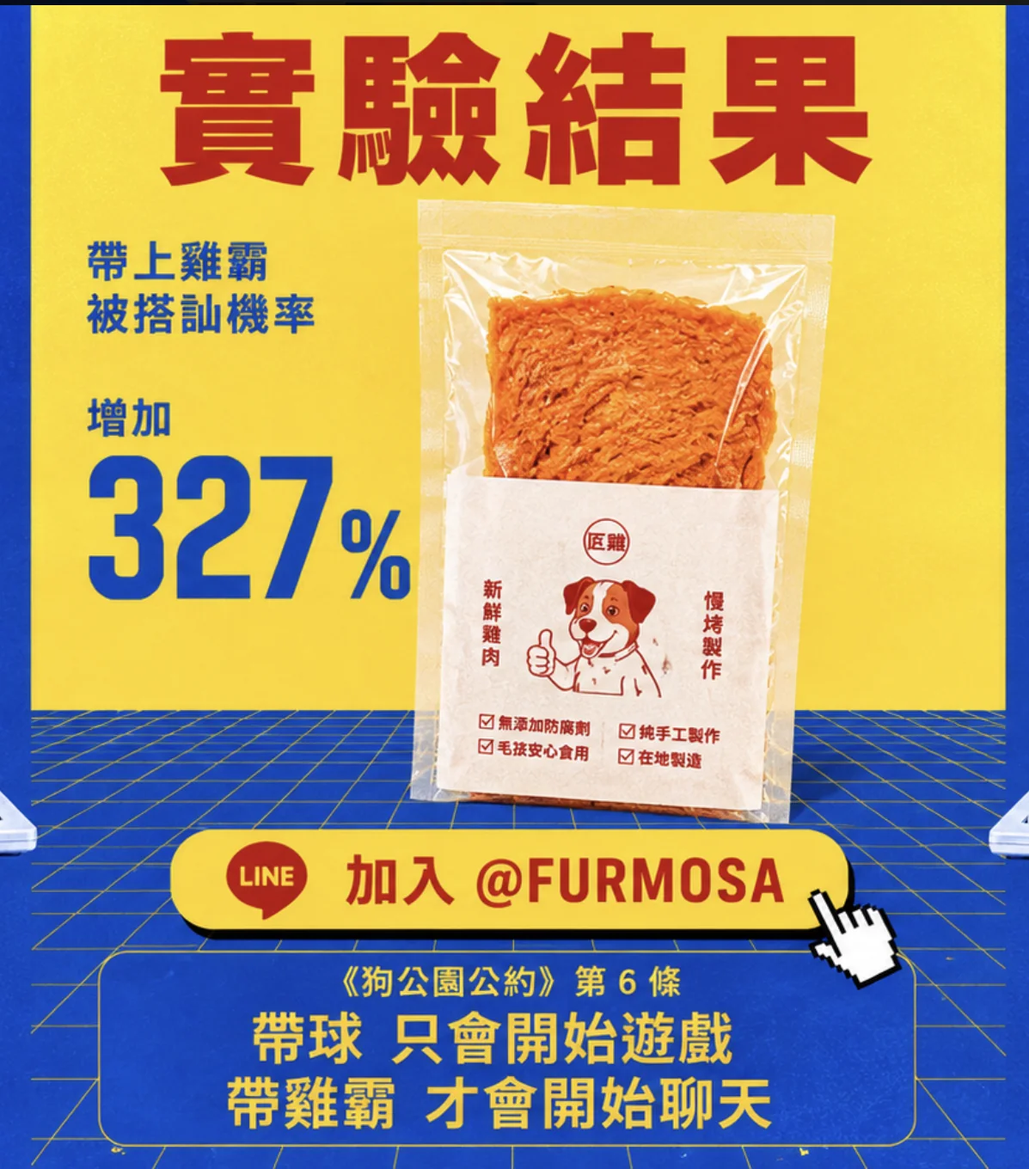
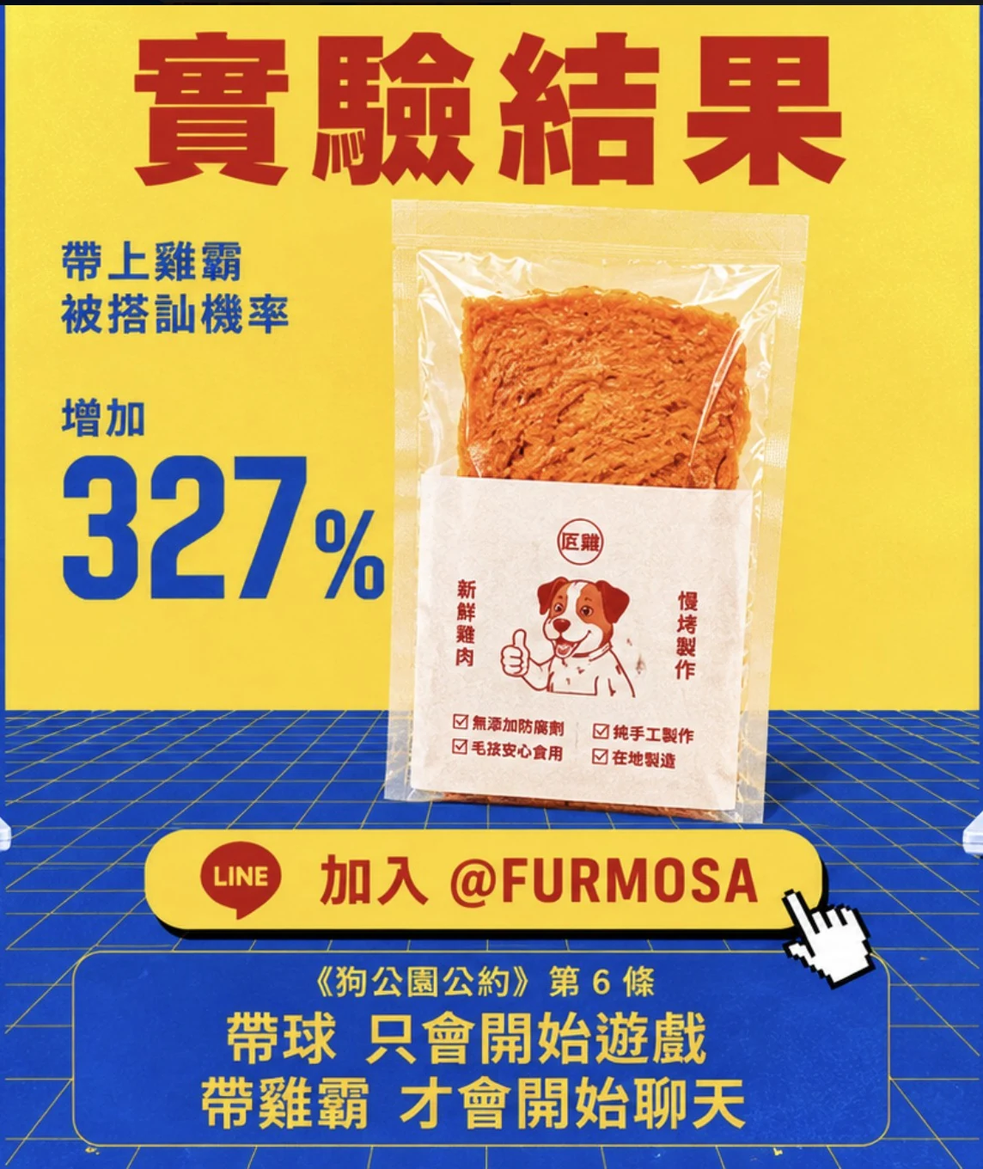
Fix side panel computer crop and unify blue background
Recut left/right poster panels past the yellow seam so the full CRT and
keyboard stay visible, paint center bleed to #1740c0, and scale side art
to fit the fixed viewport without clipping.

diff --git a/src/data/thisfootHtml.ts b/src/data/thisfootHtml.ts
@@ -1,2 +1,2 @@
 /** Static markup captured from https://thisfootdoesnotexist.com/ */
-export const THISFOOT_HTML = `<section class="hero is-fullheight"><div class="container main-container"><div class="columns is-gapless"><div class="column desktop-column left is-hidden-mobile"><picture class="desktop-hero-img"><source srcset="/images/side-dog-left.webp" type="image/webp"><img src="/images/side-dog-left.jpg" alt="Subject A" width="598" height="1360" class="desktop-hero-img-el"></picture><div class="desktop-c2a"><a href="sms:+16074093339&body=Send%20me%20some%20feet%20pleeeeeeeeease!" class="phone-link"><img src="/img/phonenumbers/16074093339.png" alt="607-409-3339"></a><p>TEXT OUR ROBOT IT’LL SEND YOU FEET.</p></div></div><div class="column is-3 mobile"><div class="mobile-wrapper"><div class="mobile-hero"><div class="hero-drive-wrap"><picture class="hero-image hero-drive"><source srcset="/images/hero-center.webp" type="image/webp"><img src="/images/hero-center.jpg" alt="實驗結果" width="1197" height="1360" decoding="async" fetchpriority="high" class="hero-drive-img"></picture></div><div class="mobile-text"><div class="c2a-wrapper"><a href="sms:+16074093339&body=Send%20me%20some%20feet%20pleeeeeeeeease!" title="16074093339" class="button c2a-phone-hero"><img src="/img/phonenumbers/16074093339R.png" alt="607-409-3339"> <img src="/_nuxt/img/fc777b6.png" alt="tap here" class="pointer"></a><p>TAP TO TEXT OUR ROBOT. IT’LL SEND YOU FEET.</p></div><img src="/_nuxt/img/0e4a889.png" alt="WE TRAINED A COMPUTER TO CREAT FAKE FOOT PICS" class="legs"></div></div><div class="mobile-messages"><div class="chat"><div class="mine messages"><div class="message last">Send Feeeet!!</div></div><div class="yours messages"><div class="message has-image"><video src="/_nuxt/videos/a52d925.mp4" muted autoplay playsinline loop></video></div><div class="message last">Like this!!! 👆👆👆👆??????</div></div><div class="mine messages"><div class="message last">Was this made by a computer?</div></div><div class="yours messages"><div class="message">Yes with our GAN!</div><div class="message last">Text <a href="sms:+16074093339&body=Send%20me%20some%20feet%20pleeeeeeeeease!" class="phone-link">607-409-3339 </a>for Another!</div></div><div class="mine messages"><div class="message last">What is GAN?</div></div><div class="yours messages"><div class="message last"><strong>A generative adversarial network (GAN)</strong> is a class of machine learning system in which two virtual robots beat the shit out of each other to produce better results for their human masters.<br><br>One network strives to produce a desired output and the other strives to choke the other network out and throw its limp body in the East River. (Less hyperbolically, one strives to make real things, and the other strives to identify fake things). In this way, the two networks improve on each other to efficiently create high quality results.<br><br>GANs are often used for both image-making and image-recognition - things like computer vision for self-driving cars and automatically creating imitations of paintings or photographs or for style transfer.<br><br>Some GAN-dervied media are shown below:<br><br>1<br><img src="/_nuxt/img/66822cf.png" alt="This Person Does Not Exist: generated faces of people who have never existed"><br>This Person Does Not Exist: generated faces of people who have never existed<br><br>2<br><img src="/_nuxt/img/1cff272.png" alt="pix2pix: has many iterations - this one renders cats based on line drawings"><br>pix2pix: has many iterations - this one renders cats based on line drawings<br><br>3<br><img src="/_nuxt/img/960b956.png" alt="Portrait of Edmond Belamy, 2018: generated oil painting sold at Christie’s auction to the overly credible"><br>Portrait of Edmond Belamy, 2018: generated oil painting sold at Christie’s auction to the overly credible</div></div><div class="mine messages"><div class="message last">2. What is a FOOT PIC?</div></div><div class="yours messages"><div class="message last"><strong>Foot pics</strong> are hot hot hot, and you love to see ‘em! At their base level they are pictures of, or that contain, (usually women’s) feet as a prominent visual element. For our purposes here, we are interested mostly in pics in which feet are the central visual element, to the exclusion of other parts of the body, but the term can ecompass more than this.<br><br>Feet are, by general scientific consensus, the most common non-sexual-body-part fetish - feet pics’ presence on social platforms is essentially untraceable and origin-less.<br><br>4<br><img src="/_nuxt/img/d757328.png" alt="Apocryphally, the first image posted on the Instagram platform featured a fluffy dog and a woman’s foot."><br>Apocryphally, the first image posted on the Instagram platform featured a fluffy dog and a woman’s foot.<br><br>Produced as a niche fetishistic commodity, feet pics have all the perceived transgressive elements of more traditionally recognized pornography, but without relying on specific pornographic or explicit content such nudity, genitalia, or even extensive skin exposure. And therein lies their potential.<br><br>5<br><img src="/_nuxt/img/dde6cad.png" alt="A snapshot from WikiFeet, one of the web’s premier aggregators of (largely non-explicit) foot pics. But if we didn’t tell you that, would you look twice at this image?"><br>A snapshot from WikiFeet, one of the web’s premier aggregators of (largely non-explicit) foot pics. But if we didn’t tell you that, would you look twice at this image?</div></div><div class="mine messages"><div class="message last">3. Foot pics as CHAMELEONIC BI-MODAL CONTENT</div></div><div class="yours messages"><div class="message last">Because foot pics* can operate in two discrete modes of content consumption simultaneously (i.e. <strong>they can be memes and nudes simultaneously</strong>, in the same public sphere), their perception depends entirely upon the viewer and the context in which the image appears. Thus the foot pic is both highly valuable and almost worthless at the same time - and this creates a highly intriguing supply & demand dynamic when creators/consumers fall on different ends of this valuation scale.<br><br>The foot pic, then, becomes a commodity which the consumer is willing to pay for on its basis as an intimate, revealing, and/or pornographic (and perhaps power-granting, when provided on request) asset, while the producer may** see it as a meme, a dupe, a way to trick the horny-credible out of their ill-spent cash.<br><br>6<br><img src="/_nuxt/img/31997c2.png" alt="TikTok user @stinkypoopoohead_ shoes off a $500 Venmo payment, ostensibly for foot pics, demonstrating how foot pics can operate within the Meme paradigm"><br>TikTok user @stinkypoopoohead_ shoes off a $500 Venmo payment, ostensibly for foot pics, demonstrating how foot pics can operate within the Meme paradigm<br><br>The foot pic is that rarest piece of pornographic content: produced by casual and non-professional creators, yet which nevertheless is unlikely*** to haunt its creator in the future as long as it can be offhandedly dismissed within the humorous context it inhabits in the minds of a non-fetishist audience.<br><br>7<br><img src="/_nuxt/img/5ea0c6a.png" alt="A TikTok by user @gabybgabss captioned “My friends hyping me up when i sell feet pics online” underscores the local relative acceptability of foot pics"><br>A TikTok by user @gabybgabss captioned “My friends hyping me up when i sell feet pics online” underscores the local relative acceptability of foot pics<br><br>We endeavor not to yuck anyone’s yum - and by offering itself as a meme for the non-yum, foot pics achieve a broad appeal across social platforms. Few people on a platform will cast shame on a fellow user for being a producer of foot pics. Indeed, if any comment is provoked besides a benign “lol,” it is frequently a kind of bewildered respect for the sheer chutzpah, the artful racket, the incomprehensible yet undeniable long-tail capitalist processes, that have allowed a person to meaningfully profit from this most absurd of photographic endeavors.<br><br>* some feet pics: usually those exclusively of feet.<br>** there is no guarantee that the producer of a foot pic sees it only as meme, however they are likely to be aware that this is a viable interpretation.<br>*** this is still highly contingent on the exact contet of the image, and the producer’s social environment, of course.</div></div><div class="yours messages"><div class="message has-image is-ad"><img src="/_nuxt/img/4851abe.png" alt="ad"></div></div><div class="yours messages"><div class="message last">The foot pic specifically confounds the famous (and now, it should be noted, obsolete) Supreme Court working definition of pornography* - <strong>“[You] Know It When You See It.”</strong><br><br>The viewer who does not have a thing for feet, indeed, will NOT “Know It,” and indeed may find the notion that it could be Known ridiculous or unbelievable to such an extreme as to engender the utmost hilarity. By this same virtue, the foot pic may also ghost seamlessly through algorithmic or even human content moderation strategies.<br><br>* Jacobellis v. Ohio, 1964</div></div><div class="mine messages"><div class="message last">4. Foot pics as UNEQUAL EXCHANGE</div></div><div class="yours messages"><div class="message last">Because the foot pic may be devoid of any mainstream pornographic signifiers it is both low barrier to entry and significantly safer to distribute. The production of the picture may, depending entirely upon the person to whom the foot belongs, be essentially <strong>valueless in the mind of the producer - and yet the resulting image strongly valued by the right consumer.</strong><br><br>We might posit that the dynamic created mirrors the Arghiri Emmanuel’s Theory of Unequal Exchange. This analysis observes that countries with lower wages export more embodied labor time in their commodities than they import - and that the reverse holds true for countries with higher wages. Crucially, the face monetary value of imported and exported commodities does not capture this metric.<br><br>8<br><img src="/_nuxt/img/38d9c81.png" alt="Unequal Exchange, by Arghiri Emmanuel 1972"><br>Unequal Exchange, by Arghiri Emmanuel 1972<br><br>With foot pics, then, the presence of a foot fetish, and therefore the psychological investiture in the created/consumed (imported or exported) functions as a parallel metric to labor time. Whether this implies, as Emmanuel theorizes with regard to trade between more-developed and less-developed nations, that the terms of foot pic sales will become less favorable to buyers over time is unclear.<br><br>Fundamentally we can view foot pics’ spread, popularity, and accessibility as a kind of <strong>arbitrage across a foot-fetishism gradient</strong>, which moves foot images from areas of low psychological investiture (non-foot-fetishist producers) to areas of high investiture (foot-fetishist consumers).</div></div><div class="mine messages"><div class="message">cool thx</div><div class="message last">...who ARE you?</div></div><div class="yours messages"><div class="message">This is <a href="https://mschf.xyz" title="MSCHF homepage" target="_blank" class="credit">MSCHF</a> drop #12. Text <a href="sms:+19175403113" title="917-540-3113">917-540-3113</a> to get MSCHF drop #13 before the public.</div><div class="message last">By using this project, you are <a href="/privacypolicy.pdf" target="_blank" title="Privacy Policy" class="phone-link">opting in</a> to receive text messages from MSCHF.</div></div></div></div></div></div><div class="column desktop-column right is-hidden-mobile"><picture class="desktop-hero-img"><source srcset="/images/side-dog-right.webp" type="image/webp"><img src="/images/side-dog-right.jpg" alt="Subject B" width="598" height="1360" class="desktop-hero-img-el"></picture><div class="desktop-c2a"><a href="sms:+16074093339&body=Send%20me%20some%20feet%20pleeeeeeeeease!" class="phone-link"><img src="/img/phonenumbers/16074093339.png" alt="607-409-3339"></a><p>TEXT OUR ROBOT IT’LL SEND YOU FEET.</p></div></div></div></div></section>`;
+export const THISFOOT_HTML = `<section class="hero is-fullheight"><div class="container main-container"><div class="columns is-gapless"><div class="column desktop-column left is-hidden-mobile"><picture class="desktop-hero-img"><source srcset="/images/side-dog-left.webp" type="image/webp"><img src="/images/side-dog-left.jpg" alt="壕大大雞霸 無添加" width="883" height="1360" class="desktop-hero-img-el"></picture></div><div class="column is-3 mobile"><div class="mobile-wrapper"><div class="mobile-hero"><div class="hero-drive-wrap"><picture class="hero-image hero-drive"><source srcset="/images/hero-center.webp" type="image/webp"><img src="/images/hero-center.jpg" alt="實驗結果" width="1144" height="1360" decoding="async" fetchpriority="high" class="hero-drive-img"></picture></div><div class="mobile-text"><div class="c2a-wrapper"><a href="sms:+16074093339&body=Send%20me%20some%20feet%20pleeeeeeeeease!" title="16074093339" class="button c2a-phone-hero"><img src="/img/phonenumbers/16074093339R.png" alt="607-409-3339"> <img src="/_nuxt/img/fc777b6.png" alt="tap here" class="pointer"></a><p>TAP TO TEXT OUR ROBOT. IT’LL SEND YOU FEET.</p></div><img src="/_nuxt/img/0e4a889.png" alt="WE TRAINED A COMPUTER TO CREAT FAKE FOOT PICS" class="legs"></div></div><div class="mobile-messages"><div class="chat"><div class="mine messages"><div class="message last">Send Feeeet!!</div></div><div class="yours messages"><div class="message has-image"><video src="/_nuxt/videos/a52d925.mp4" muted autoplay playsinline loop></video></div><div class="message last">Like this!!! 👆👆👆👆??????</div></div><div class="mine messages"><div class="message last">Was this made by a computer?</div></div><div class="yours messages"><div class="message">Yes with our GAN!</div><div class="message last">Text <a href="sms:+16074093339&body=Send%20me%20some%20feet%20pleeeeeeeeease!" class="phone-link">607-409-3339 </a>for Another!</div></div><div class="mine messages"><div class="message last">What is GAN?</div></div><div class="yours messages"><div class="message last"><strong>A generative adversarial network (GAN)</strong> is a class of machine learning system in which two virtual robots beat the shit out of each other to produce better results for their human masters.<br><br>One network strives to produce a desired output and the other strives to choke the other network out and throw its limp body in the East River. (Less hyperbolically, one strives to make real things, and the other strives to identify fake things). In this way, the two networks improve on each other to efficiently create high quality results.<br><br>GANs are often used for both image-making and image-recognition - things like computer vision for self-driving cars and automatically creating imitations of paintings or photographs or for style transfer.<br><br>Some GAN-dervied media are shown below:<br><br>1<br><img src="/_nuxt/img/66822cf.png" alt="This Person Does Not Exist: generated faces of people who have never existed"><br>This Person Does Not Exist: generated faces of people who have never existed<br><br>2<br><img src="/_nuxt/img/1cff272.png" alt="pix2pix: has many iterations - this one renders cats based on line drawings"><br>pix2pix: has many iterations - this one renders cats based on line drawings<br><br>3<br><img src="/_nuxt/img/960b956.png" alt="Portrait of Edmond Belamy, 2018: generated oil painting sold at Christie’s auction to the overly credible"><br>Portrait of Edmond Belamy, 2018: generated oil painting sold at Christie’s auction to the overly credible</div></div><div class="mine messages"><div class="message last">2. What is a FOOT PIC?</div></div><div class="yours messages"><div class="message last"><strong>Foot pics</strong> are hot hot hot, and you love to see ‘em! At their base level they are pictures of, or that contain, (usually women’s) feet as a prominent visual element. For our purposes here, we are interested mostly in pics in which feet are the central visual element, to the exclusion of other parts of the body, but the term can ecompass more than this.<br><br>Feet are, by general scientific consensus, the most common non-sexual-body-part fetish - feet pics’ presence on social platforms is essentially untraceable and origin-less.<br><br>4<br><img src="/_nuxt/img/d757328.png" alt="Apocryphally, the first image posted on the Instagram platform featured a fluffy dog and a woman’s foot."><br>Apocryphally, the first image posted on the Instagram platform featured a fluffy dog and a woman’s foot.<br><br>Produced as a niche fetishistic commodity, feet pics have all the perceived transgressive elements of more traditionally recognized pornography, but without relying on specific pornographic or explicit content such nudity, genitalia, or even extensive skin exposure. And therein lies their potential.<br><br>5<br><img src="/_nuxt/img/dde6cad.png" alt="A snapshot from WikiFeet, one of the web’s premier aggregators of (largely non-explicit) foot pics. But if we didn’t tell you that, would you look twice at this image?"><br>A snapshot from WikiFeet, one of the web’s premier aggregators of (largely non-explicit) foot pics. But if we didn’t tell you that, would you look twice at this image?</div></div><div class="mine messages"><div class="message last">3. Foot pics as CHAMELEONIC BI-MODAL CONTENT</div></div><div class="yours messages"><div class="message last">Because foot pics* can operate in two discrete modes of content consumption simultaneously (i.e. <strong>they can be memes and nudes simultaneously</strong>, in the same public sphere), their perception depends entirely upon the viewer and the context in which the image appears. Thus the foot pic is both highly valuable and almost worthless at the same time - and this creates a highly intriguing supply & demand dynamic when creators/consumers fall on different ends of this valuation scale.<br><br>The foot pic, then, becomes a commodity which the consumer is willing to pay for on its basis as an intimate, revealing, and/or pornographic (and perhaps power-granting, when provided on request) asset, while the producer may** see it as a meme, a dupe, a way to trick the horny-credible out of their ill-spent cash.<br><br>6<br><img src="/_nuxt/img/31997c2.png" alt="TikTok user @stinkypoopoohead_ shoes off a $500 Venmo payment, ostensibly for foot pics, demonstrating how foot pics can operate within the Meme paradigm"><br>TikTok user @stinkypoopoohead_ shoes off a $500 Venmo payment, ostensibly for foot pics, demonstrating how foot pics can operate within the Meme paradigm<br><br>The foot pic is that rarest piece of pornographic content: produced by casual and non-professional creators, yet which nevertheless is unlikely*** to haunt its creator in the future as long as it can be offhandedly dismissed within the humorous context it inhabits in the minds of a non-fetishist audience.<br><br>7<br><img src="/_nuxt/img/5ea0c6a.png" alt="A TikTok by user @gabybgabss captioned “My friends hyping me up when i sell feet pics online” underscores the local relative acceptability of foot pics"><br>A TikTok by user @gabybgabss captioned “My friends hyping me up when i sell feet pics online” underscores the local relative acceptability of foot pics<br><br>We endeavor not to yuck anyone’s yum - and by offering itself as a meme for the non-yum, foot pics achieve a broad appeal across social platforms. Few people on a platform will cast shame on a fellow user for being a producer of foot pics. Indeed, if any comment is provoked besides a benign “lol,” it is frequently a kind of bewildered respect for the sheer chutzpah, the artful racket, the incomprehensible yet undeniable long-tail capitalist processes, that have allowed a person to meaningfully profit from this most absurd of photographic endeavors.<br><br>* some feet pics: usually those exclusively of feet.<br>** there is no guarantee that the producer of a foot pic sees it only as meme, however they are likely to be aware that this is a viable interpretation.<br>*** this is still highly contingent on the exact contet of the image, and the producer’s social environment, of course.</div></div><div class="yours messages"><div class="message has-image is-ad"><img src="/_nuxt/img/4851abe.png" alt="ad"></div></div><div class="yours messages"><div class="message last">The foot pic specifically confounds the famous (and now, it should be noted, obsolete) Supreme Court working definition of pornography* - <strong>“[You] Know It When You See It.”</strong><br><br>The viewer who does not have a thing for feet, indeed, will NOT “Know It,” and indeed may find the notion that it could be Known ridiculous or unbelievable to such an extreme as to engender the utmost hilarity. By this same virtue, the foot pic may also ghost seamlessly through algorithmic or even human content moderation strategies.<br><br>* Jacobellis v. Ohio, 1964</div></div><div class="mine messages"><div class="message last">4. Foot pics as UNEQUAL EXCHANGE</div></div><div class="yours messages"><div class="message last">Because the foot pic may be devoid of any mainstream pornographic signifiers it is both low barrier to entry and significantly safer to distribute. The production of the picture may, depending entirely upon the person to whom the foot belongs, be essentially <strong>valueless in the mind of the producer - and yet the resulting image strongly valued by the right consumer.</strong><br><br>We might posit that the dynamic created mirrors the Arghiri Emmanuel’s Theory of Unequal Exchange. This analysis observes that countries with lower wages export more embodied labor time in their commodities than they import - and that the reverse holds true for countries with higher wages. Crucially, the face monetary value of imported and exported commodities does not capture this metric.<br><br>8<br><img src="/_nuxt/img/38d9c81.png" alt="Unequal Exchange, by Arghiri Emmanuel 1972"><br>Unequal Exchange, by Arghiri Emmanuel 1972<br><br>With foot pics, then, the presence of a foot fetish, and therefore the psychological investiture in the created/consumed (imported or exported) functions as a parallel metric to labor time. Whether this implies, as Emmanuel theorizes with regard to trade between more-developed and less-developed nations, that the terms of foot pic sales will become less favorable to buyers over time is unclear.<br><br>Fundamentally we can view foot pics’ spread, popularity, and accessibility as a kind of <strong>arbitrage across a foot-fetishism gradient</strong>, which moves foot images from areas of low psychological investiture (non-foot-fetishist producers) to areas of high investiture (foot-fetishist consumers).</div></div><div class="mine messages"><div class="message">cool thx</div><div class="message last">...who ARE you?</div></div><div class="yours messages"><div class="message">This is <a href="https://mschf.xyz" title="MSCHF homepage" target="_blank" class="credit">MSCHF</a> drop #12. Text <a href="sms:+19175403113" title="917-540-3113">917-540-3113</a> to get MSCHF drop #13 before the public.</div><div class="message last">By using this project, you are <a href="/privacypolicy.pdf" target="_blank" title="Privacy Policy" class="phone-link">opting in</a> to receive text messages from MSCHF.</div></div></div></div></div></div><div class="column desktop-column right is-hidden-mobile"><picture class="desktop-hero-img"><source srcset="/images/side-dog-right.webp" type="image/webp"><img src="/images/side-dog-right.jpg" alt="壕大大雞霸 純雞情" width="883" height="1360" class="desktop-hero-img-el"></picture></div></div></div></section>`;

diff --git a/public/thisfoot.css b/public/thisfoot.css
@@ -6,9 +6,9 @@
 @font-face{font-family:Dominion Italic;src:url(./_nuxt/fonts/bf3afe6.ttf)}
 @font-face{font-family:Dominion Regular;src:url(./_nuxt/fonts/2cc84b8.ttf)}
 
-html{background:#213c86;font-family:SpaceMono Regular,Andale Mono,monospace;font-size:16px;-webkit-font-smoothing:antialiased;box-sizing:border-box;overflow-x:hidden}
+html{background:#1740c0;font-family:SpaceMono Regular,Andale Mono,monospace;font-size:16px;-webkit-font-smoothing:antialiased;box-sizing:border-box;overflow-x:hidden}
 *,:after,:before{box-sizing:border-box;margin:0}
-body{background:#213c86;color:#fff;min-height:100%}
+body{background:#1740c0;color:#fff;min-height:100%}
 a{color:inherit}
 a.button,button{background:unset;border:0;cursor:pointer;font:inherit}
 img,video{max-width:100%;height:auto;display:block}
@@ -38,7 +38,7 @@ img,video{max-width:100%;height:auto;display:block}
   width:100%;
   margin:0;
   overflow:hidden;
-  background:#213c86;
+  background:#ffd150;
 }
 .hero.is-fullheight .mobile-hero .hero-drive,
 .hero.is-fullheight .mobile-hero .hero-drive-img{
@@ -46,7 +46,7 @@ img,video{max-width:100%;height:auto;display:block}
   width:100%;
   height:auto;
   max-width:100%;
-  aspect-ratio:2394 / 1360;
+  aspect-ratio:1144 / 1360;
   object-fit:cover;
   object-position:center center;
 }
@@ -75,7 +75,7 @@ img,video{max-width:100%;height:auto;display:block}
     width:100%;
     height:auto;
     object-fit:contain;
-    background:#213c86;
+    background:#ffd150;
   }
 }
 /* thisfoot-style presence animations (hero top only) */
@@ -134,53 +134,58 @@ img,video{max-width:100%;height:auto;display:block}
     z-index:2;
     overflow:hidden;
     pointer-events:auto;
+    justify-content:center;
+    align-items:center;
+    gap:0;
+    padding:0.75rem !important;
+    background:#1740c0;
   }
   .columns.is-gapless .desktop-column.left{left:0}
   .columns.is-gapless .desktop-column.right{right:0}
-  .columns.is-gapless .desktop-column .desktop-hero-img,
+  .columns.is-gapless .desktop-column .desktop-hero-img{
+    display:flex;
+    align-items:center;
+    justify-content:center;
+    width:100%;
+    height:100%;
+    max-height:100%;
+    margin:0;
+    flex:0 1 auto;
+    min-height:0;
+  }
   .columns.is-gapless .desktop-column .desktop-hero-img-el{
-    width:86%;
-    max-height:48vh;
+    width:auto;
     height:auto;
+    max-width:100%;
+    max-height:100%;
     object-fit:contain;
+    object-position:center center;
     margin:0 auto;
     display:block;
   }
+  .columns.is-gapless .desktop-column .desktop-c2a{display:none!important}
   .hero.is-fullheight .mobile{
     position:relative;
     z-index:1;
     width:414px;
     margin:0 auto;
   }
+  .hero.is-fullheight .mobile-hero{padding-top:.5rem}
 }
 @media screen and (max-width:768px){
   .columns.is-gapless .desktop-column{display:none!important}
 }
 
-/* Logos removed — keep side dogs vertically balanced */
-@media screen and (min-width:769px){
-  .columns.is-gapless .desktop-column{
-    justify-content:center;
-    gap:1.25rem;
-    padding-top:2rem!important;
-  }
-  .columns.is-gapless .desktop-column .desktop-c2a{margin-top:auto}
-  .hero.is-fullheight .mobile-hero{padding-top:.5rem}
-}
-
 /* Triptych cut: center panel only scrolls; sides are full-height static panels */
 .hero.is-fullheight .mobile-hero .hero-drive-img{
-  aspect-ratio:1197 / 1360;
+  aspect-ratio:1144 / 1360;
   object-fit:cover;
   object-position:center center;
   width:100%;
   background:#ffd150;
 }
-@media screen and (min-width:769px){
-  .columns.is-gapless .desktop-column .desktop-hero-img,
-  .columns.is-gapless .desktop-column .desktop-hero-img-el{
-    width:90%;
-    max-height:62vh;
-    object-fit:contain;
-  }
-}
+html,body{background:#1740c0!important}
+.columns.is-gapless .desktop-column{background:#1740c0!important}
+.hero.is-fullheight .mobile{background:#ffd150}
+.hero.is-fullheight .mobile-hero .hero-drive-wrap,
+.hero.is-fullheight .mobile-hero .hero-drive-img{background:#ffd150}

diff --git a/src/app/globals.css b/src/app/globals.css
@@ -1,6 +1,6 @@
 /* Minimal reset; site styles live in /thisfoot.css (public, basePath-safe). */
 html {
-  background: #213c86;
+  background: #1740c0;
   -webkit-font-smoothing: antialiased;
   box-sizing: border-box;
   overflow-x: hidden;
@@ -14,7 +14,7 @@ html {
 }
 
 body {
-  background: #213c86;
+  background: #1740c0;
   color: #fff;
   min-height: 100%;
   font-family: "SpaceMono Regular", "Andale Mono", monospace;

diff --git a/src/app/layout.tsx b/src/app/layout.tsx
@@ -39,7 +39,7 @@ export const metadata: Metadata = {
 };
 
 export const viewport: Viewport = {
-  themeColor: "#ffffff",
+  themeColor: "#1740c0",
   width: "device-width",
   initialScale: 1,
   maximumScale: 5,

diff --git a/scripts/cut_poster_panels.py b/scripts/cut_poster_panels.py
@@ -1,0 +1,163 @@
+#!/usr/bin/env python3
+"""Cut hero-drive.jpg into static side panels + scrolling center.
+
+Sides keep full CRT/keyboard by extending past the blue/yellow seam, then
+paint center bleed to panel blue (#1740c0).
+"""
+from __future__ import annotations
+
+from pathlib import Path
+
+import numpy as np
+from PIL import Image
+
+ROOT = Path(__file__).resolve().parents[1]
+SRC = ROOT / "public/images/hero-drive.jpg"
+OUT = ROOT / "public/images"
+PANEL = np.array([23, 64, 192], dtype=np.uint8)  # #1740c0
+SEAM_L, SEAM_R = 628, 1772
+LEFT_END, RIGHT_START = 755, 1639
+PAD = 64
+
+
+def keep_hardware_only(region: np.ndarray) -> np.ndarray:
+    r = region[:, :, 0].astype(np.int16)
+    g = region[:, :, 1].astype(np.int16)
+    b = region[:, :, 2].astype(np.int16)
+    luma = 0.3 * r + 0.59 * g + 0.11 * b
+    beige = (
+        (r >= 130)
+        & (g >= 120)
+        & (b >= 95)
+        & (np.abs(r - g) <= 45)
+        & ((r - b) >= -5)
+        & (b <= 200)
+        & (luma >= 125)
+        & (luma <= 230)
+    )
+    keys = (
+        (85 <= r)
+        & (r <= 155)
+        & (85 <= g)
+        & (g <= 150)
+        & (75 <= b)
+        & (b <= 145)
+        & (np.abs(r - g) <= 22)
+        & (np.abs(g - b) <= 25)
+        & ((b - r) <= 15)
+        & (luma >= 90)
+        & (luma <= 155)
+    )
+    keep = beige | keys
+    out = np.broadcast_to(PANEL, region.shape).copy()
+    out[keep] = region[keep]
+    kept = keep.copy()
+    for _ in range(2):
+        dil = kept.copy()
+        dil[1:, :] |= kept[:-1, :]
+        dil[:-1, :] |= kept[1:, :]
+        dil[:, 1:] |= kept[:, :-1]
+        dil[:, :-1] |= kept[:, 1:]
+        near_h = (
+            (r >= 110)
+            & (g >= 100)
+            & (b >= 80)
+            & (np.abs(r - g) <= 50)
+            & ((b - r) <= 25)
+            & (luma >= 105)
+        )
+        add = dil & ~kept & near_h
+        out[add] = region[add]
+        kept |= add
+    return out
+
+
+def snap_blues(region: np.ndarray) -> np.ndarray:
+    r = region[:, :, 0].astype(np.int16)
+    g = region[:, :, 1].astype(np.int16)
+    b = region[:, :, 2].astype(np.int16)
+    near = (np.abs(r - 23) <= 45) & (np.abs(g - 64) <= 45) & (np.abs(b - 192) <= 45)
+    navy = (r <= 45) & (g <= 50) & (b <= 100)
+    soft = (r <= 70) & (g >= 30) & (g <= 110) & (b >= 140) & (b <= 235)
+    orange = (r >= 160) & (g <= 140) & (b <= 100)
+    yellow = (r >= 180) & (g >= 145) & (b <= 145)
+    hard = (r >= 120) & (g >= 110) & (b >= 90) & (np.abs(r - g) <= 50) & (b <= 205) & (
+        (b - r) <= 20
+    )
+    mask = (near | navy | soft) & ~orange & ~yellow & ~hard
+    out = region.copy()
+    out[mask] = PANEL
+    return out
+
+
+def pad(arr: np.ndarray, pl: int, pr: int) -> np.ndarray:
+    hh, ww, _ = arr.shape
+    canvas = np.full((hh, ww + pl + pr, 3), PANEL, dtype=np.uint8)
+    canvas[:, pl : pl + ww] = arr
+    return canvas
+
+
+def scrub_inner(arr: np.ndarray, from_right: bool) -> np.ndarray:
+    h, w, _ = arr.shape
+    r = arr[:, :, 0].astype(np.int16)
+    g = arr[:, :, 1].astype(np.int16)
+    b = arr[:, :, 2].astype(np.int16)
+    beige = (
+        (r >= 125)
+        & (g >= 115)
+        & (b >= 90)
+        & (np.abs(r - g) <= 48)
+        & ((b - r) <= 18)
+        & (b <= 205)
+    )
+    keys = (
+        (85 <= r)
+        & (r <= 155)
+        & (85 <= g)
+        & (g <= 150)
+        & (75 <= b)
+        & (b <= 145)
+        & (np.abs(r - g) <= 22)
+        & ((b - r) <= 15)
+    )
+    hard = beige | keys
+    band = int(w * 0.12)
+    xs = range(w - band, w) if from_right else range(0, band)
+    out = arr.copy()
+    for x in xs:
+        for y in range(h):
+            if not hard[y, x]:
+                out[y, x] = PANEL
+    if from_right:
+        out[:, -36:] = PANEL
+    else:
+        out[:, :36] = PANEL
+    return snap_blues(out)
+
+
+def save_pair(arr: np.ndarray, stem: str) -> None:
+    img = Image.fromarray(arr)
+    img.save(OUT / f"{stem}.jpg", quality=92, optimize=True)
+    img.save(OUT / f"{stem}.webp", quality=88, method=6)
+    print(stem, arr.shape[1], arr.shape[0])
+
+
+def main() -> None:
+    im = np.array(Image.open(SRC).convert("RGB"))
+    left = im[:, :LEFT_END].copy()
+    left[:, SEAM_L:] = keep_hardware_only(left[:, SEAM_L:])
+    left = scrub_inner(pad(snap_blues(left), PAD, PAD), True)
+
+    right = im[:, RIGHT_START:].copy()
+    ls = SEAM_R - RIGHT_START
+    right[:, :ls] = keep_hardware_only(right[:, :ls])
+    right = scrub_inner(pad(snap_blues(right), PAD, PAD), False)
+
+    center = im[:, SEAM_L:SEAM_R].copy()
+    save_pair(left, "side-dog-left")
+    save_pair(right, "side-dog-right")
+    save_pair(center, "hero-center")
+
+
+if __name__ == "__main__":
+    main()
